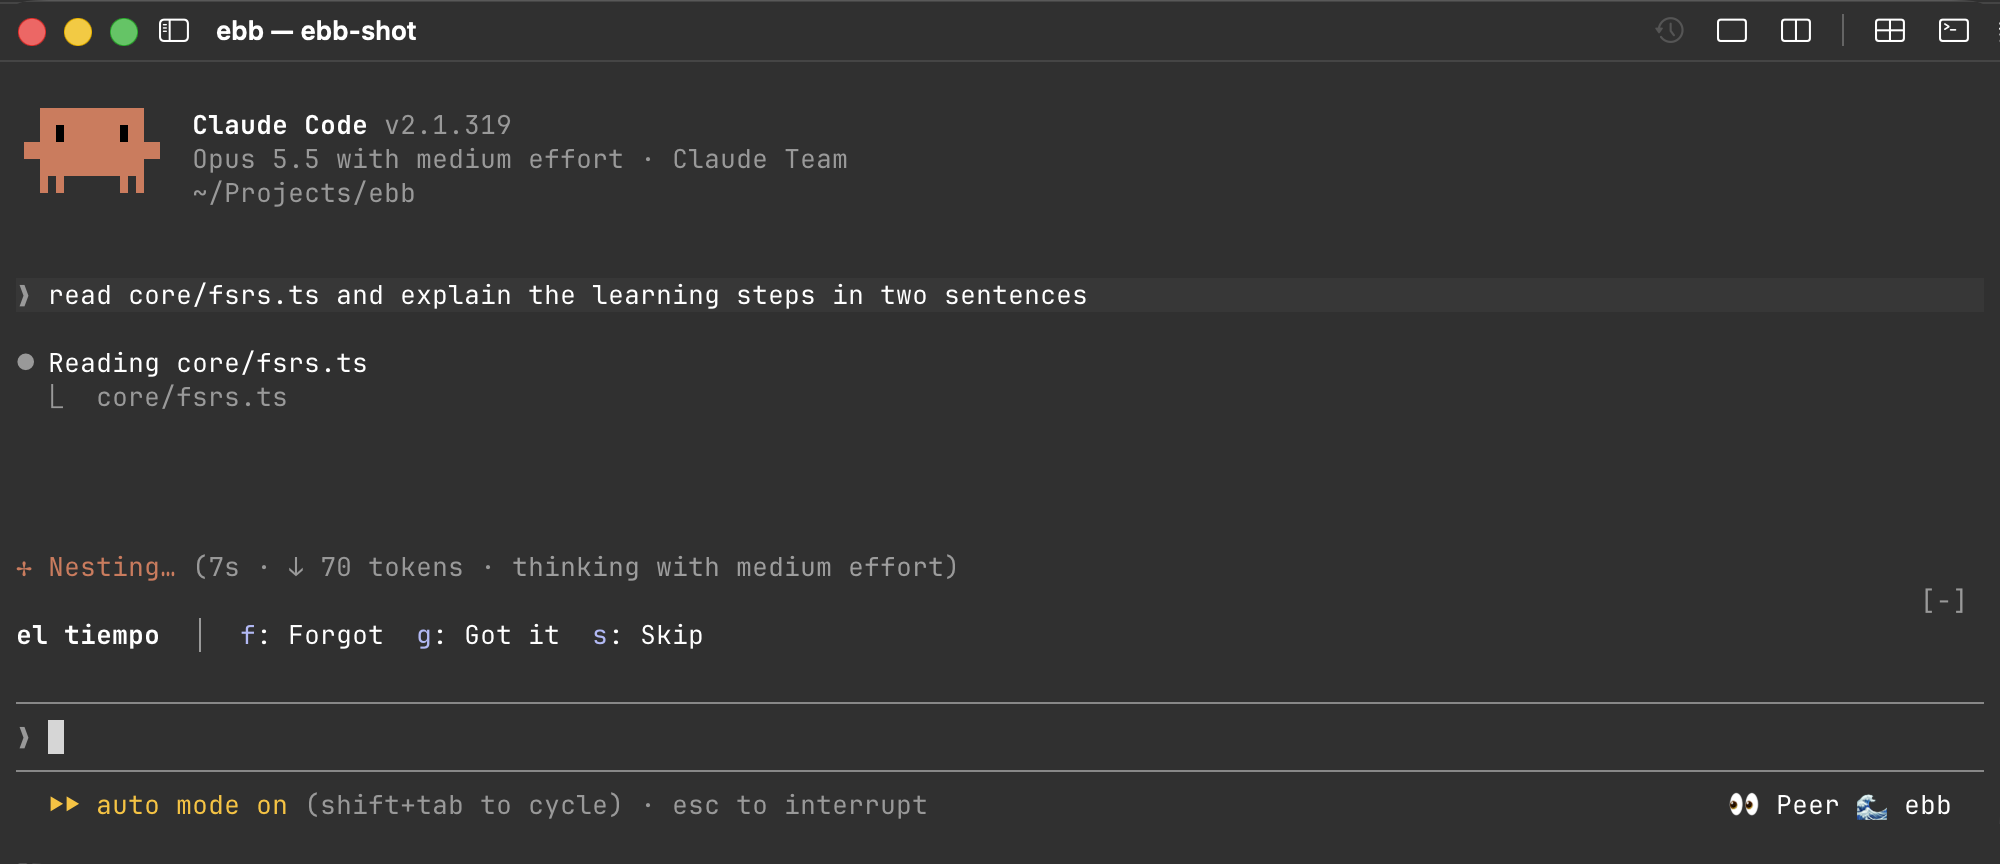
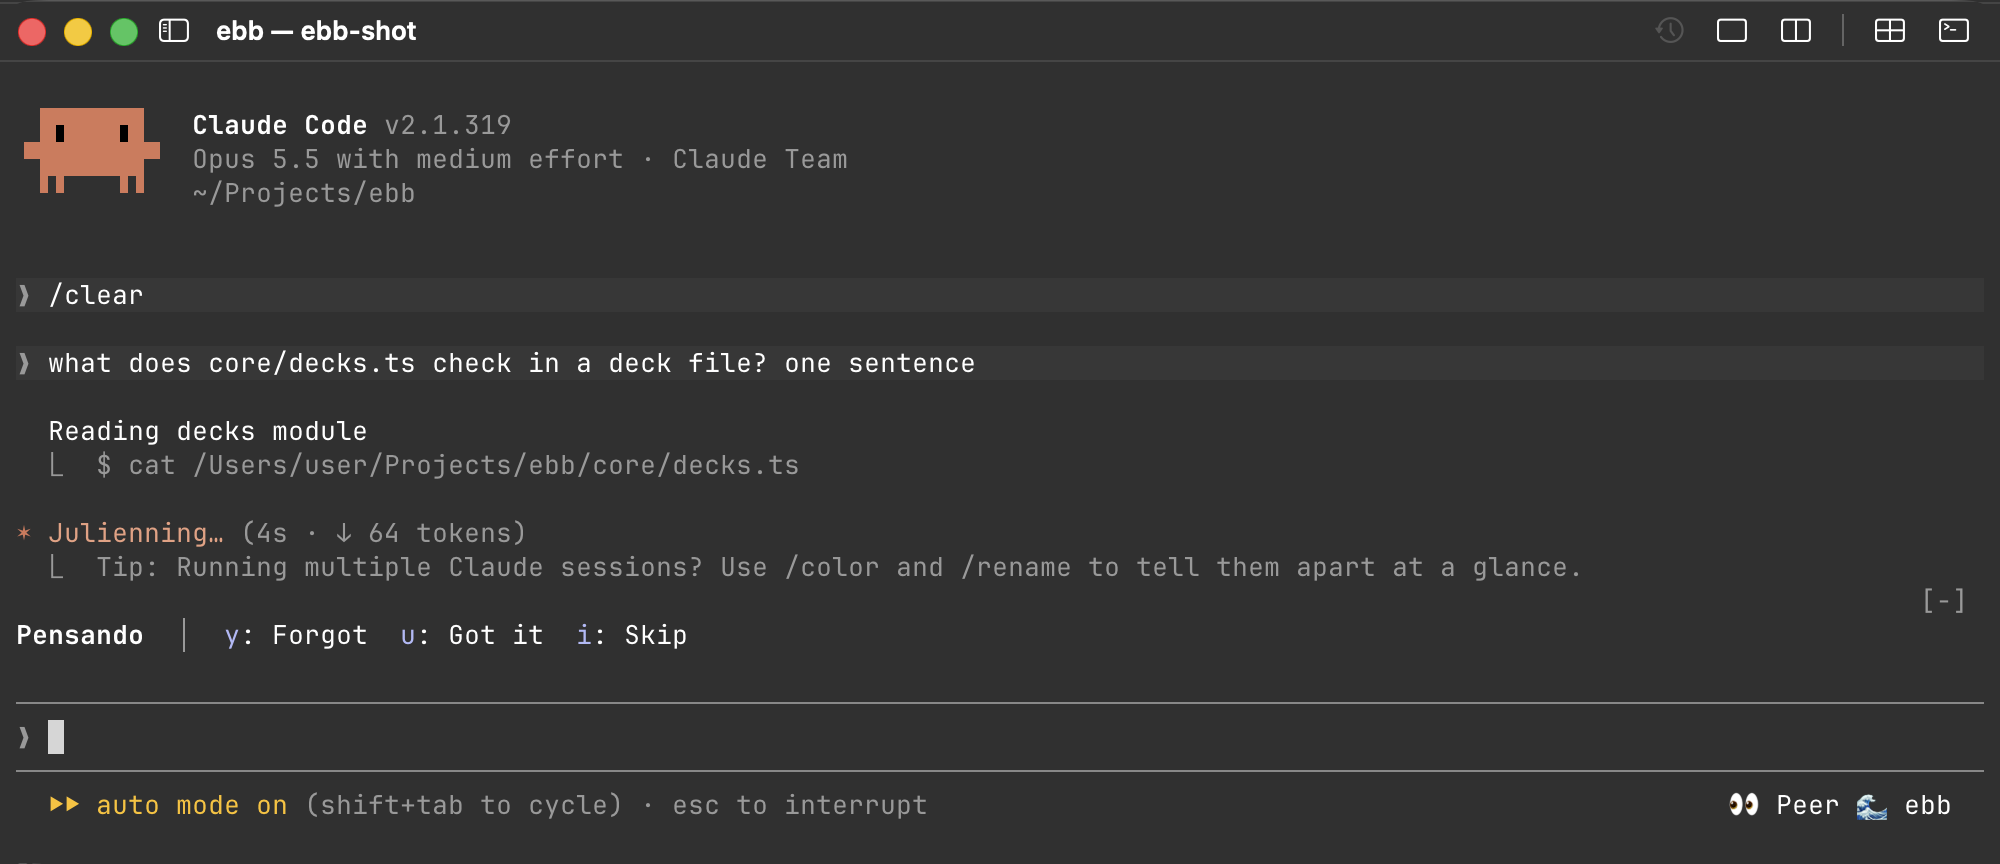
feat: grade with y/u/i in both agents, cmd+y/u/i in pi
The band of Claude Code takes y (Forgot, then Next), u (Got it) and i (Skip)
after ctrl+x tab. In pi the same letters come with cmd, which Ghostty and
agterm pass through the kitty keyboard protocol; ctrl+0 hides the band, and a
click still grades. Other terminals set their own keys in pi.json.

diff --git a/pi/index.ts b/pi/index.ts
@@ -22,9 +22,16 @@ import { fileHost } from './host'
 
 const WIDGET = 'ebb'
 
-// Modified keys, so the editor keeps every key it types. On a Mac, Option works as Alt only when the
-// terminal sends it so; the band also takes clicks. `cmd` digits switch the terminal's tabs.
-const KEYS = { forgot: 'alt+1', got: 'alt+2', skip: 'alt+3', toggle: 'alt+h' } as const satisfies Record<string, KeyId>
+type Keys = Record<'forgot' | 'got' | 'skip' | 'toggle', KeyId>
+
+// Modified keys, so the editor keeps every key it types; the same letters as the band of Claude Code.
+// `super` is cmd: Ghostty passes cmd chords it does not bind through the kitty keyboard protocol, and
+// binds cmd with a digit, e, w and most other letters itself. pi binds ctrl with nearly every letter,
+// and Option types a character on a Mac. Other terminals click the band or set `keys` in pi.json.
+const DEFAULT_KEYS: Keys = { forgot: 'super+y', got: 'super+u', skip: 'super+i', toggle: 'ctrl+0' }
+
+/** How a key reads in the band: `cmd+y` on a Mac, as the person presses it. */
+const keyLabel = (key: KeyId) => (process.platform === 'darwin' ? key.replace('super+', 'cmd+') : key)
 
 type Action = 'forgot' | 'got' | 'skip' | 'next'
 
@@ -32,8 +39,19 @@ type Action = 'forgot' | 'got' | 'skip' | 'next'
 type Part = { text: string; action?: Action }
 
 const files = fileHost(homedir(), dataDir(homedir(), process.env.XDG_DATA_HOME))
-// Whether the person hid the band; kept beside the data, so it stays hidden in new sessions.
+// The person's settings of the extension, beside the data: whether they hid the band, and their own keys.
 const SETTINGS = `${files.dir}/pi.json`
+
+type Settings = { hidden?: boolean; keys?: Partial<Keys> }
+
+/** The settings file, or none when it is missing or not JSON. */
+const readSettings = async (): Promise<Settings> => {
+  try {
+    return JSON.parse(await files.read(SETTINGS)) as Settings
+  } catch {
+    return {}
+  }
+}
 
 const textOf = (content: { type: string; text?: string }[]) =>
   content
@@ -42,7 +60,7 @@ const textOf = (content: { type: string; text?: string }[]) =>
     .join('')
 
 /** The pieces of the band; none while it is paused or without a card. */
-const bandParts = (v: BandView, theme: Theme): Part[] | undefined => {
+const bandParts = (v: BandView, theme: Theme, keys: Keys): Part[] | undefined => {
   if (v.kind === 'error') return [{ text: theme.fg('error', `ebb: cannot read the data: ${v.error}`) }]
   if (v.kind === 'no-deck')
     return [{ text: theme.fg('dim', 'ebb: /ebb add <topic> or /ebb install <file or URL> to get cards') }]
@@ -51,23 +69,23 @@ const bandParts = (v: BandView, theme: Theme): Part[] | undefined => {
   const f = v.face
   const bar = { text: `  ${theme.fg('dim', '│')}  ` }
   const button = (key: KeyId, label: string, action: Action): Part => ({
-    text: `${theme.fg('accent', key)} ${label}`,
+    text: `${theme.fg('accent', keyLabel(key))} ${label}`,
     action,
   })
   const gap = { text: '  ' }
   if (v.isRevealed) {
     const hint = f.hint ? theme.fg('dim', ` (${f.hint})`) : ''
-    return [{ text: `${theme.bold(f.ask)} — ${f.answer}${hint}` }, bar, button(KEYS.forgot, 'Next', 'next')]
+    return [{ text: `${theme.bold(f.ask)} — ${f.answer}${hint}` }, bar, button(keys.forgot, 'Next', 'next')]
   }
 
   return [
     { text: theme.bold(f.ask) },
     bar,
-    button(KEYS.forgot, 'Forgot', 'forgot'),
+    button(keys.forgot, 'Forgot', 'forgot'),
     gap,
-    button(KEYS.got, 'Got it', 'got'),
+    button(keys.got, 'Got it', 'got'),
     gap,
-    button(KEYS.skip, 'Skip', 'skip'),
+    button(keys.skip, 'Skip', 'skip'),
   ]
 }
 
@@ -99,7 +117,9 @@ const bandWidget = (parts: Part[], press: (action: Action) => void) => (_tui: un
   })
 }
 
-export default function ebb(pi: ExtensionAPI) {
+export default async function ebb(pi: ExtensionAPI) {
+  // Shortcuts are registered while pi loads the extension, so the keys are read here, once.
+  const keys: Keys = { ...DEFAULT_KEYS, ...(await readSettings()).keys }
   const session = createSession()
   let ctx: ExtensionContext | undefined
   let isHidden = false
@@ -107,7 +127,7 @@ export default function ebb(pi: ExtensionAPI) {
   const draw = async () => {
     if (!ctx?.hasUI) return
     const ui = ctx.ui
-    const parts = isHidden ? undefined : bandParts(await session.bandView(host), ui.theme)
+    const parts = isHidden ? undefined : bandParts(await session.bandView(host), ui.theme, keys)
     ui.setWidget(WIDGET, parts && bandWidget(parts, action => void press(action)))
   }
 
@@ -239,12 +259,7 @@ export default function ebb(pi: ExtensionAPI) {
 
   pi.on('session_start', async (_event, startCtx) => {
     ctx = startCtx
-    const settings = await files.read(SETTINGS).catch(() => '{}')
-    try {
-      isHidden = (JSON.parse(settings) as { hidden?: boolean }).hidden === true
-    } catch {
-      isHidden = false
-    }
+    isHidden = (await readSettings()).hidden === true
     await showNextCard()
   })
 
@@ -270,23 +285,23 @@ export default function ebb(pi: ExtensionAPI) {
     },
   })
 
-  pi.registerShortcut(KEYS.forgot, {
+  pi.registerShortcut(keys.forgot, {
     description: 'ebb: Forgot, or Next after the answer',
     handler: act(() => run('forgot')),
   })
-  pi.registerShortcut(KEYS.got, {
+  pi.registerShortcut(keys.got, {
     description: 'ebb: Got it',
     handler: act(() => run('got')),
   })
-  pi.registerShortcut(KEYS.skip, {
+  pi.registerShortcut(keys.skip, {
     description: 'ebb: skip the card',
     handler: act(() => run('skip')),
   })
-  pi.registerShortcut(KEYS.toggle, {
+  pi.registerShortcut(keys.toggle, {
     description: 'ebb: hide or show the card above the editor',
     handler: act(async () => {
       isHidden = !isHidden
-      await files.write(SETTINGS, JSON.stringify({ hidden: isHidden }))
+      await files.write(SETTINGS, JSON.stringify({ ...(await readSettings()), hidden: isHidden }))
       await draw()
     }),
   })

diff --git a/pi/ebb.spec.ts b/pi/ebb.spec.ts
@@ -2,7 +2,7 @@
 // command, events and shortcuts, and its model calls go to pi's faux provider. Only the terminal is
 // a stand-in, typed by pi's `ExtensionUIContext`, as pi's own test suite does it.
 
-import { mkdtemp, readdir, readFile, writeFile } from 'node:fs/promises'
+import { mkdir, mkdtemp, readdir, readFile, writeFile } from 'node:fs/promises'
 import { tmpdir } from 'node:os'
 import { join } from 'node:path'
 
@@ -179,12 +179,12 @@ test('a shortcut grades the card in the band, and the schedule and the log are s
   const pi = await startPi()
   await pi.session.prompt(`/ebb install ${join(dir, 'es.json')}`)
   const first = pi.screen.band?.[0]
-  expect(first).toMatch(/alt\+1 Forgot {2}alt\+2 Got it {2}alt\+3 Skip/)
+  expect(first).toMatch(/(cmd|super)\+y Forgot {2}(cmd|super)\+u Got it {2}(cmd|super)\+i Skip/)
 
-  await pi.press('alt+1')
-  expect(pi.screen.band?.[0]).toMatch(/— (heart|hand).*alt\+1 Next/)
-  await pi.press('alt+2') // Got it does nothing while the answer is open
-  await pi.press('alt+1')
+  await pi.press('super+y')
+  expect(pi.screen.band?.[0]).toMatch(/— (heart|hand).*(cmd|super)\+y Next/)
+  await pi.press('super+u') // Got it does nothing while the answer is open
+  await pi.press('super+y')
   expect(pi.screen.band?.[0]).not.toBe(first)
 
   expect(await reps()).toBe(1)
@@ -214,16 +214,31 @@ test('a click on a button of the band grades the card as its key does', async ()
   expect(click(pi.screen, '│')).toBeUndefined() // not a button: the click stays with pi
 })
 
+test('keys set in pi.json replace the default ones, and hiding the band keeps them', async () => {
+  await mkdir(join(dir, 'ebb'), { recursive: true })
+  await writeFile(join(dir, 'ebb', 'pi.json'), JSON.stringify({ keys: { got: 'ctrl+2' } }))
+  const pi = await startPi()
+  await pi.session.prompt(`/ebb install ${join(dir, 'es.json')}`)
+  expect(pi.screen.band?.[0]).toMatch(/ctrl\+2 Got it/)
+
+  await pi.press('ctrl+2')
+  expect(await reps()).toBe(1)
+
+  await pi.press('ctrl+0')
+  const settings = JSON.parse(await readFile(join(dir, 'ebb', 'pi.json'), 'utf8'))
+  expect(settings).toEqual({ keys: { got: 'ctrl+2' }, hidden: true })
+})
+
 test('the band stays hidden in the next session and takes no grade', async () => {
   const pi = await startPi()
   await pi.session.prompt(`/ebb install ${join(dir, 'es.json')}`)
-  await pi.press('alt+h')
+  await pi.press('ctrl+0')
   expect(pi.screen.band).toBeUndefined()
 
   vi.resetModules()
   const next = await startPi()
   expect(next.screen.band).toBeUndefined()
-  await next.press('alt+2')
+  await next.press('super+u')
   expect(await reps()).toBe(0)
 })
 

diff --git a/hooks/register.tsx b/hooks/register.tsx
@@ -88,9 +88,10 @@ const gradeCurrent = async ($: $, rating: Rating) => {
 
 // Two grades, Again and Good: whether the person recalled the card is what FSRS needs most.
 // Letters, not digits: a bare digit in an empty prompt presses a band Button, and the band never takes the prompt's keys.
+// y, u and i side by side, the same letters as the cmd shortcuts of the pi extension.
 const GRADES = [
-  { rating: 1, hotkey: 'f', label: 'Forgot' },
-  { rating: 3, hotkey: 'g', label: 'Got it' },
+  { rating: 1, hotkey: 'y', label: 'Forgot' },
+  { rating: 3, hotkey: 'u', label: 'Got it' },
 ] as const
 
 /** The card in the band, or nothing while the cards are paused or none is chosen. */
@@ -114,7 +115,7 @@ const cardTree = async ($: $, { Box, Text, Button }: ReturnType<$['ui']['resolve
         <Text dimColor>│</Text>
         <Button
           key="next"
-          hotkey="f"
+          hotkey="y"
           plain
           variant="primary"
           label="Next"
@@ -136,7 +137,7 @@ const cardTree = async ($: $, { Box, Text, Button }: ReturnType<$['ui']['resolve
           onPress={() => void gradeCurrent($, g.rating)}
         />
       ))}
-      <Button key="skip" hotkey="s" plain label="Skip" onPress={async () => session.skip(await hostOf($))} />
+      <Button key="skip" hotkey="i" plain label="Skip" onPress={async () => session.skip(await hostOf($))} />
     </Box>
   )
 }

diff --git a/README.md b/README.md
@@ -40,8 +40,8 @@ claude plugin install ebb@ebb
 
 Then restart Claude Code.
 
-- The band above the prompt shows one card: `el corazón  │  f: Forgot  g: Got it  s: Skip`.
-- Got it brings the next card at once. Forgot shows the answer, with the note's hint if it has one: `el corazón — heart  │  f: Next`.
+- The band above the prompt shows one card: `el corazón  │  y: Forgot  u: Got it  i: Skip`.
+- Got it brings the next card at once. Forgot shows the answer, with the note's hint if it has one: `el corazón — heart  │  y: Next`.
 - The `🌊 ebb` button under the prompt hides the band and shows it again.
 
 To update, open `/plugin` in Claude Code, or run:
@@ -63,13 +63,17 @@ pi install npm:pi-ebb
 
 The commands are the same `/ebb` commands. The card shows above the editor. Grade it with a shortcut or a click; the editor keeps every key you type:
 
-- `alt+1` (Option+1 on a Mac): Forgot, and Next after the answer.
-- `alt+2`: Got it.
-- `alt+3`: Skip.
-- `alt+h`: hide or show the card. It stays as you left it in new sessions.
+- `cmd+y` (`super+y` off a Mac): Forgot, and Next after the answer.
+- `cmd+u`: Got it.
+- `cmd+i`: Skip.
+- `ctrl+0`: hide or show the card. It stays as you left it in new sessions.
 - Or click a button of the band. pi passes clicks in its fullscreen mode, the default.
 
-On a Mac, Option must work as Alt: in Ghostty or agterm set `macos-option-as-alt = true`, in iTerm2 set the Option key to Esc+. Otherwise Option+1 types `¡`; click the band instead.
+`cmd` reaches pi in Ghostty and agterm, through the kitty keyboard protocol. Other terminals, such as Terminal.app and iTerm2, keep `cmd` for themselves: click the band there, or set your own keys in `$XDG_DATA_HOME/ebb/pi.json` and restart pi:
+
+```json
+{"keys": {"forgot": "alt+1", "got": "alt+2", "skip": "alt+3", "toggle": "alt+0"}}
+```
 
 `/ebb add` uses the model of the session and shows the notes in a list: press `1` to `9` to tick a note, `a` to add the ticked notes, `x` or Escape to cancel.
 
@@ -125,9 +129,9 @@ A deck file is JSON:
 In the band above the prompt:
 
 - Click a button, or press `ctrl+x tab` to move the keys to the band and then press its key.
-- Press `f` (Forgot) or `g` (Got it) to grade the card. Each button shows its key.
-- After Forgot, the band shows the answer; press `f` (Next) for the next card.
-- Press `s` to skip the card. A skipped card comes back when no other card is left.
+- Press `y` (Forgot) or `u` (Got it) to grade the card. Each button shows its key. The keys sit side by side, and they are the letters of the pi shortcuts.
+- After Forgot, the band shows the answer; press `y` (Next) for the next card.
+- Press `i` to skip the card. A skipped card comes back when no other card is left.
 - Press Escape to return to the prompt.
 - Click `🌊 ebb` under the prompt to hide or show the band. It stays as you left it in new sessions.
 

diff --git a/pi/README.md b/pi/README.md
@@ -5,7 +5,7 @@
 ![ebb in pi: a Spanish card above the editor while pi works](https://raw.githubusercontent.com/r13v/ebb/main/assets/pi.png)
 
 - **No new habit.** It uses the seconds you already wait for the agent.
-- **Never in your way.** Grade with `alt+1`, `alt+2` or a click; the editor keeps every key you type. No pop-up, ever.
+- **Never in your way.** Grade with `cmd+y`, `cmd+u` or a click; the editor keeps every key you type. No pop-up, ever.
 - **FSRS-6**, the scheduler of Anki: each card comes back just before you would forget it.
 - **Decks in one command**, checked by back-translation, or a ready deck of about 2000 Spanish words.
 
@@ -25,13 +25,17 @@ pi install npm:pi-ebb
 
 The card shows above the editor. The shortcuts never take a key the editor types:
 
-- `alt+1` (Option+1 on a Mac): Forgot, and Next after the answer.
-- `alt+2`: Got it.
-- `alt+3`: Skip.
-- `alt+h`: hide or show the card.
-- Or click a button of the band (pi's fullscreen mode, the default).
+- `cmd+y` (`super+y` off a Mac): Forgot, and Next after the answer.
+- `cmd+u`: Got it.
+- `cmd+i`: Skip.
+- `ctrl+0`: hide or show the card.
+- Or click a button of the band. pi passes clicks in its fullscreen mode, the default.
 
-On a Mac, Option must work as Alt: in Ghostty or agterm set `macos-option-as-alt = true`, in iTerm2 set the Option key to Esc+. Otherwise Option+1 types `¡`; click the band instead.
+`cmd` reaches pi in Ghostty and agterm, through the kitty keyboard protocol. Other terminals, such as Terminal.app and iTerm2, keep `cmd` for themselves: click the band there, or set your own keys in `$XDG_DATA_HOME/ebb/pi.json` and restart pi:
+
+```json
+{"keys": {"forgot": "alt+1", "got": "alt+2", "skip": "alt+3", "toggle": "alt+0"}}
+```
 
 The scheduler is FSRS-6. The data is in `$XDG_DATA_HOME/ebb/` (by default `~/.local/share/ebb/`), shared with the [Claude Code mod](https://github.com/r13v/ebb).
 

diff --git a/docs/testing.md b/docs/testing.md
@@ -19,6 +19,6 @@
 
 ## Live check
 
-The stubbed engine does not lay out the band or move the keys the way a real session does. A change of what the person sees needs a check in a real session. Inside agterm, `mise run live` (`scripts/live-check.sh`) opens one and prints the band with its card; it never grades, because the session uses the real data, so it cannot show the answer. Elsewhere, check by hand in `mise run dev`: the card above the prompt, ctrl+x tab and `g`, then `f` and Next, Escape, then a prompt that the band does not take keys from.
+The stubbed engine does not lay out the band or move the keys the way a real session does. A change of what the person sees needs a check in a real session. Inside agterm, `mise run live` (`scripts/live-check.sh`) opens one and prints the band with its card; it never grades, because the session uses the real data, so it cannot show the answer. Elsewhere, check by hand in `mise run dev`: the card above the prompt, ctrl+x tab and `u`, then `y` and Next, Escape, then a prompt that the band does not take keys from.
 
-For pi, check by hand in `mise run pi:dev`: the card above the editor, `alt+2`, then `alt+1` twice (Forgot, Next), a click on Got it, `alt+h` twice, and a prompt typed with `f`, `g` and `s` that the band leaves alone. A click needs a real mouse: agterm types keys into a session, not clicks.
+For pi, check by hand in `mise run pi:dev`: the card above the editor, `cmd+u`, then `cmd+y` twice (Forgot, Next), a click on Got it, `ctrl+0` twice, and a prompt typed with `y`, `u` and `i` that the band leaves alone. A click needs a real mouse: agterm types keys into a session, not clicks.

diff --git a/AGENTS.md b/AGENTS.md
@@ -35,4 +35,4 @@ Run `tree docs` at the beginning (without `tree`: `find docs -name '*.md' | sort
 - Every write of `data.json` goes through `mutate` in `core/ebb.ts`, under the lock (`architecture-and-data.md` § Files and the lock).
 - On every push, `.github/workflows/check.yml` runs Biome, Knip, validation, the tests and the pi checks (not the type check of the mod: CI has no engine types). When it passes on `main` and the mod changed since the last `v*` tag, `.github/workflows/release.yml` releases a new version. `.github/workflows/release-pi.yml` publishes the pi package from the commit messages. Do not bump a version by hand.
 - Commit messages follow Conventional Commits (`feat:`, `fix:`, `docs:`, `chore:`, `refactor:`, `test:`, `ci:`; `!` or a `BREAKING CHANGE:` footer for a breaking change). semantic-release reads them: `fix:` and `feat:` publish the pi package, so use them for a change a user of either host sees.
-- The mod never interrupts the user: it never takes the keys from the prompt, and no pane, toast or question opens unless the user ran `/ebb`. In pi the band takes only modified keys (`alt+1`, `alt+h`) and clicks on itself, never a key the editor types.
+- The mod never interrupts the user: it never takes the keys from the prompt, and no pane, toast or question opens unless the user ran `/ebb`. In pi the band takes only modified keys (`cmd+y`, `ctrl+0`) and clicks on itself, never a key the editor types.
